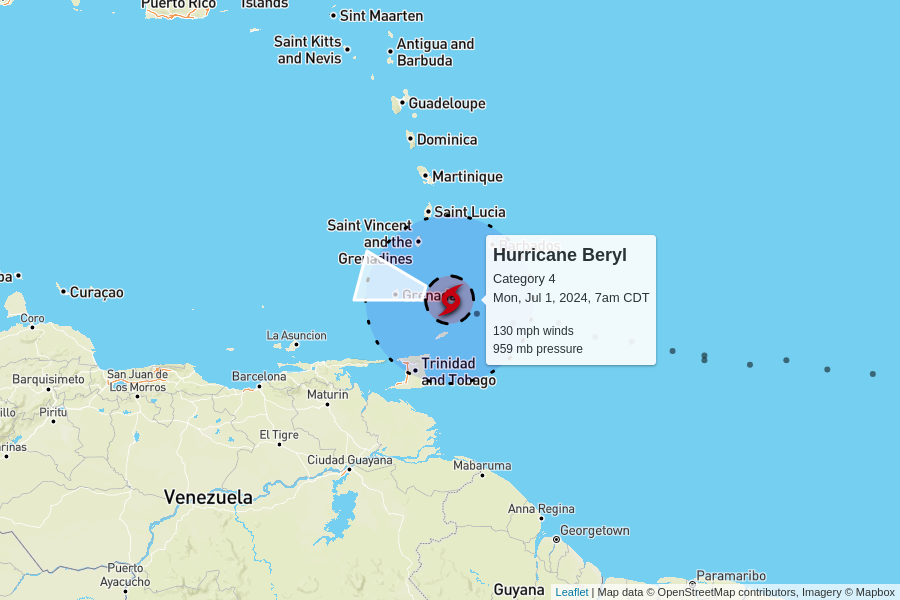
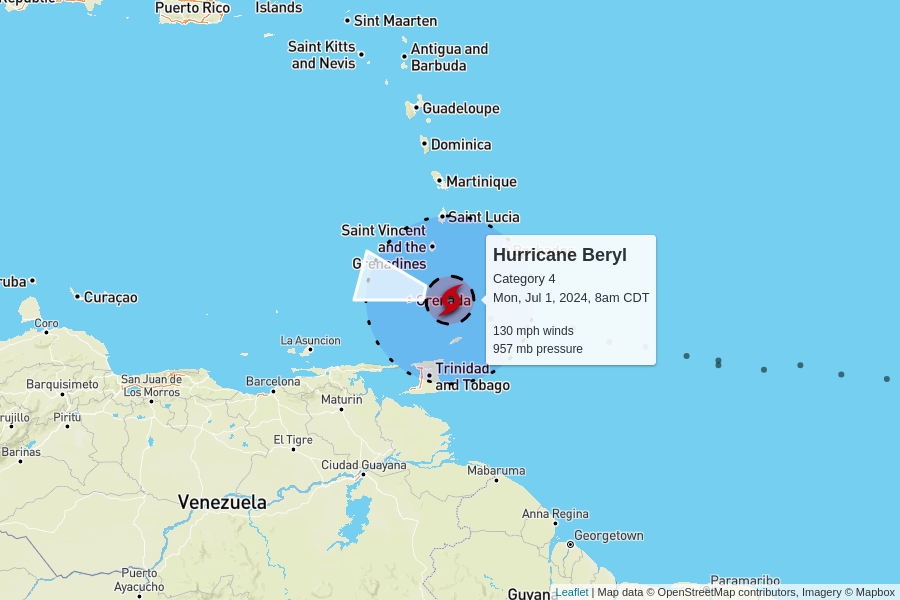
automatic update

diff --git a/docs/index.html b/docs/index.html
@@ -104,7 +104,7 @@
         <td colspan="6" class="storm category-4" >
           <h2>
             Hurricane Beryl - Category 4
-            <p class="updated">last updated <span data-time>2024-07-01T12:00:00.000Z</span></p>
+            <p class="updated">last updated <span data-time>2024-07-01T13:00:00.000Z</span></p>
           </h2>
         </td>
       </tr>
@@ -119,8 +119,8 @@
       </tr>
       <tr>
         <td class="spacer"></td>
-        <td>130 mph<br>+10 mph since last update</td>
-        <td>959 mb<br>-6 mb since last update</td>
+        <td>130 mph<br>0 mph since last update</td>
+        <td>957 mb<br>-2 mb since last update</td>
         <td>
           20 mph to the west-northwest
           <br/>
